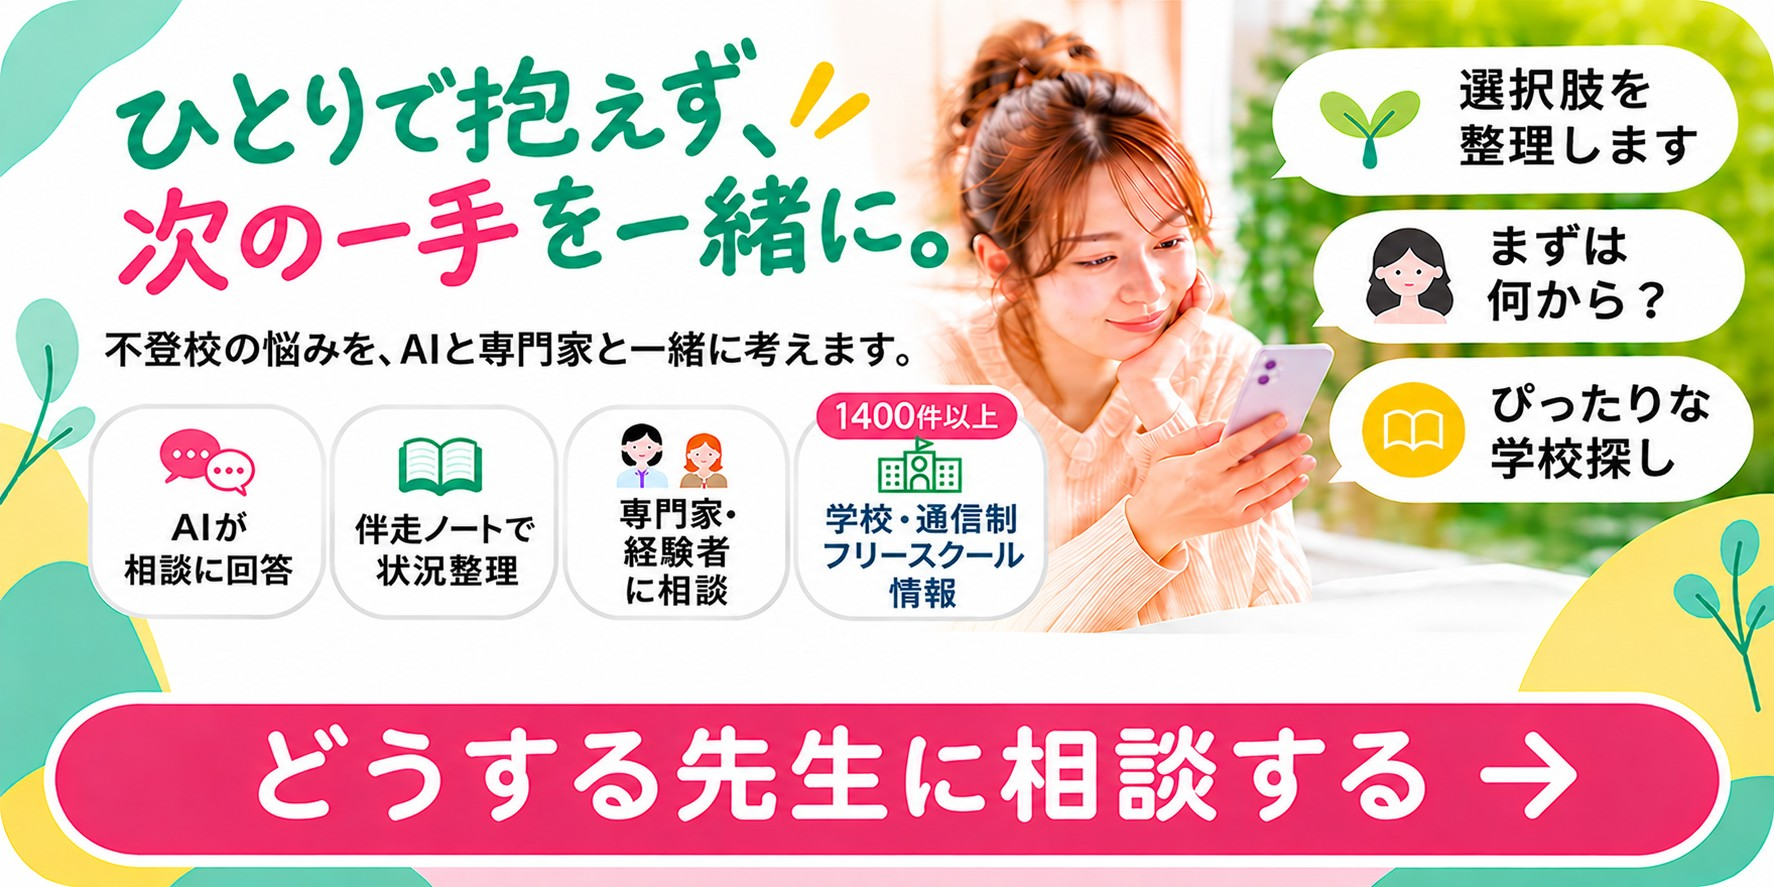
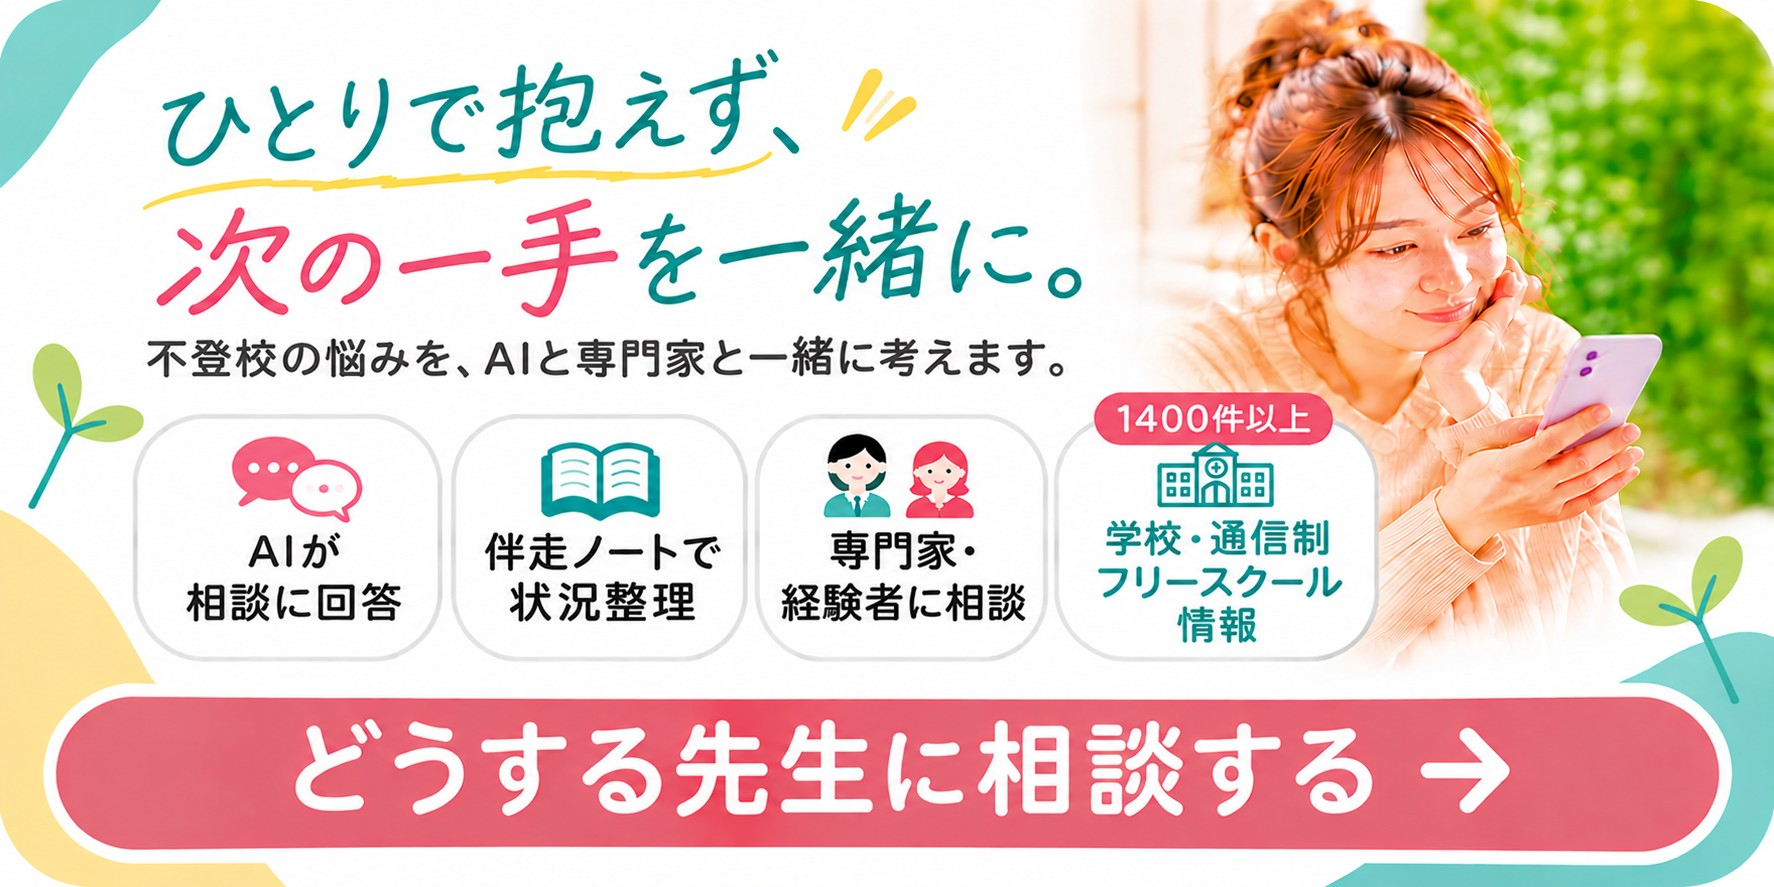
自動スライドバナーの3枚を実画像に差し替え
1枚目：経験者・専門家の募集訴求（/expert/recruit）
2枚目：伴走ノートの訴求（/notebook）
3枚目：相談する（AI＋専門家）訴求（/ask、既存のhome_cta_banner.jpgを更新）

Claude-Session: https://claude.ai/code/session_01GrtDLzDT5M9GL8H3ZffAMy

diff --git a/app/HomeClient.tsx b/app/HomeClient.tsx
@@ -31,25 +31,24 @@ function isExpertAnswered(item: Consultation) {
   return item.request_type === 'expert' && item.expert_status === 'answered' && item.experts?.credential !== SENPAI_CREDENTIAL;
 }
 
-// スマホトップの自動スライドバナー（2026-11-03追加）。本来は3枚それぞれ別の
-// 訴求内容の画像にする予定だが、2枚目・3枚目の画像はまだ用意できていないため、
-// 暫定的に同じバナー画像・同じリンク先で3枚分用意している（カルーセルの仕組み
-// 自体は動く状態にしておき、画像が届き次第ここのsrc/alt/hrefだけ差し替える）。
+// スマホトップの自動スライドバナー（2026-11-03追加、3枚とも画像差し替え済み）。
+// 1枚目：経験者・専門家の募集訴求、2枚目：伴走ノートの訴求、3枚目：相談する（AI＋専門家）
+// というこれまでの導線3本をそのままスライドにまとめた構成。
 const HERO_SLIDES: HeroSlide[] = [
   {
+    id: 'recruit',
+    href: '/expert/recruit',
+    src: '/assets/home_hero_recruit.jpg',
+    alt: '不登校のご家庭を一緒に支える経験者・専門家を募集しています。ご自身の経験や専門性を活かして、悩むご家庭の力になりませんか？経験者・専門家として参加する。',
+  },
+  {
+    id: 'notebook',
+    href: '/notebook',
+    src: '/assets/home_hero_notebook.jpg',
+    alt: '伴走ノートで、今の状況を整理しよう。AIとの対話を通して、子どものこと・家庭のこと・今できることを一緒に整理できます。伴走ノートで状況を整理する。',
+  },
+  {
     id: 'ask',
-    href: '/ask',
-    src: '/assets/home_cta_banner.jpg',
-    alt: 'ひとりで抱えず、次の一手を一緒に。不登校の悩みを、AIと専門家と一緒に考えます。どうする先生に相談する。',
-  },
-  {
-    id: 'ask-2',
-    href: '/ask',
-    src: '/assets/home_cta_banner.jpg',
-    alt: 'ひとりで抱えず、次の一手を一緒に。不登校の悩みを、AIと専門家と一緒に考えます。どうする先生に相談する。',
-  },
-  {
-    id: 'ask-3',
     href: '/ask',
     src: '/assets/home_cta_banner.jpg',
     alt: 'ひとりで抱えず、次の一手を一緒に。不登校の悩みを、AIと専門家と一緒に考えます。どうする先生に相談する。',
